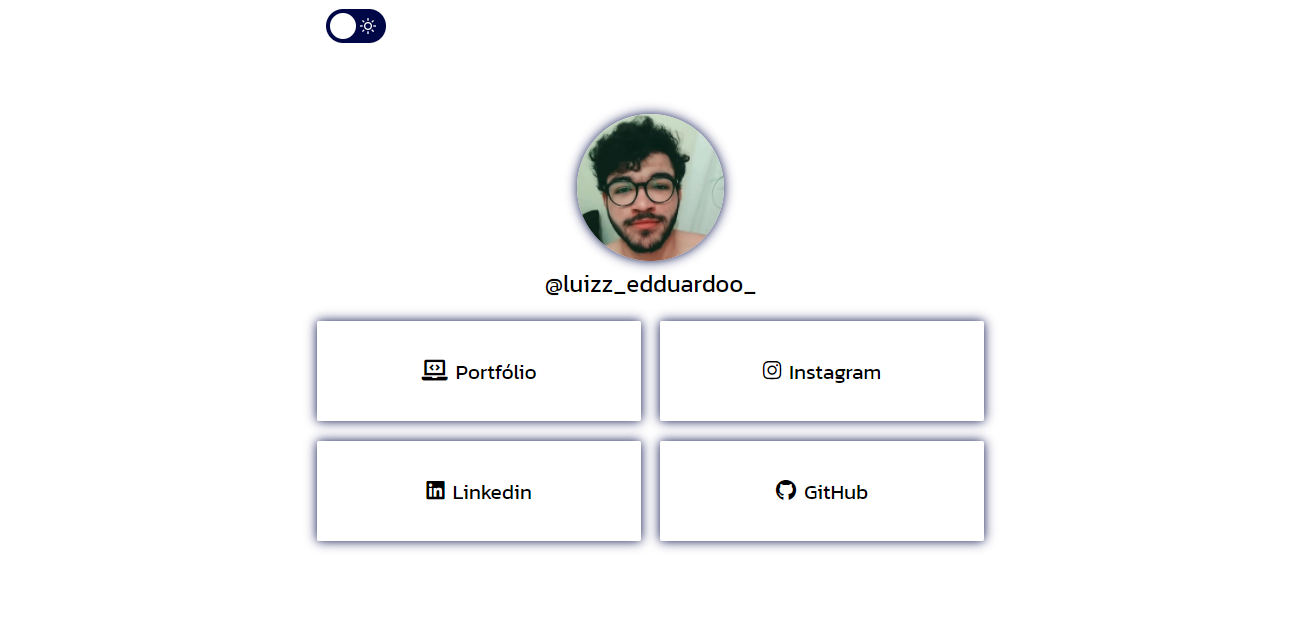
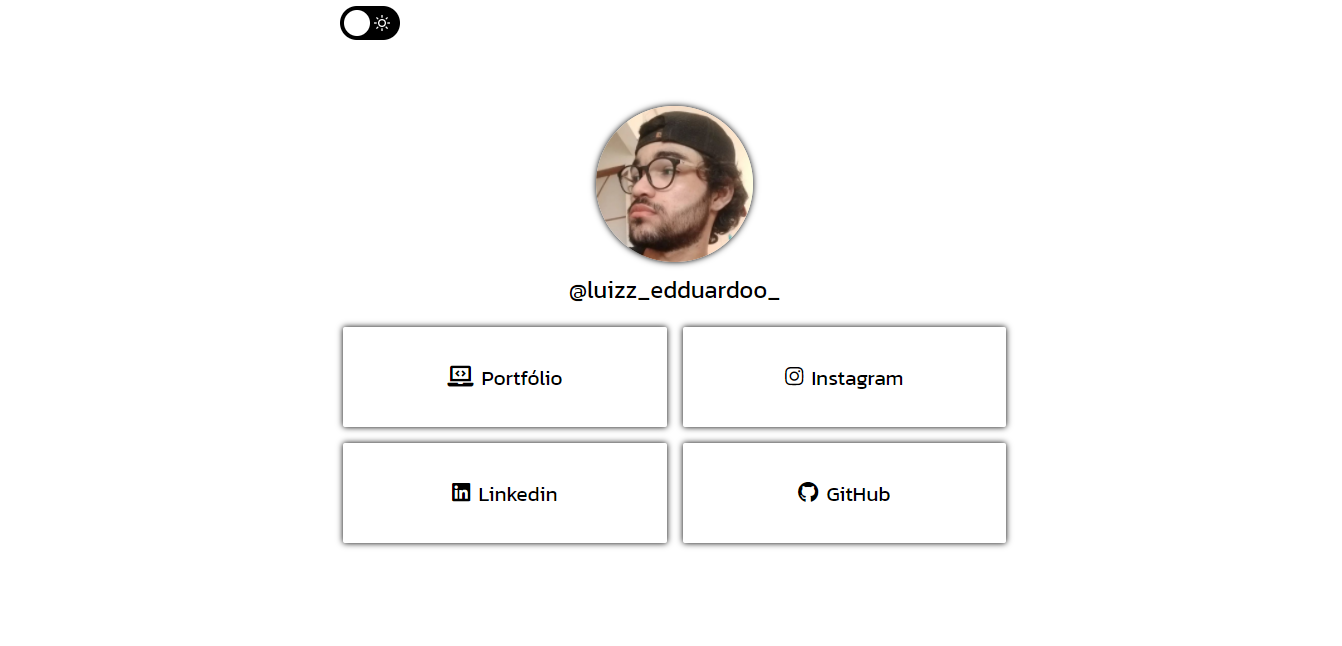
Modificação completa

diff --git a/Index.html b/Index.html
@@ -1,86 +1,91 @@
-<!doctype html>
+<!DOCTYPE html>
 <html lang="pt-br" data-theme="light">
-  
-  <head>
-    <meta charset="utf-8">
-    <meta http-equiv="x-ua-compatible" content="ie=edge">
-    <meta name="viewport" content="width=device-width, initial-scale=1.0">
-    <title>@luizz_edduardoo_ | Menu</title>
-    <!--<link rel="canonical" href="https://linkss.netlify.app/">-->
-    <meta name="author" content="Luiz Eduardo">
-    <meta name="robots" content="index">
-    <meta name="googlebot" content="index">
-    <!---<meta name="url" content="https://linkss.netlify.app/">-->
-    <meta name="copyright" content="Luiz Eduardo 2021">
-    <meta http-equiv="content-language" content="pt-br">
 
-    <script src="https://kit.fontawesome.com/6e587148a4.js" crossorigin="anonymous"></script>
-    <link rel="preconnect" href="https://fonts.googleapis.com">
-    <link rel="preconnect" href="https://fonts.gstatic.com" crossorigin>
-    <link href="https://fonts.googleapis.com/css2?family=Kanit:wght@400;500;600;700;800&display=swap" rel="stylesheet">
-    <link rel="icon" href="/assets/img/favIcon.png">
-    <link rel="stylesheet" href="/assets/css/Style.css">
-  </head>
+<head>
+  <meta charset="utf-8" />
+  <meta http-equiv="x-ua-compatible" content="ie=edge" />
+  <meta name="viewport" content="width=device-width, initial-scale=1.0" />
+  <title>Bio | Luiz Eduardo - Front-End Developer</title>
+  <meta name="author" content="Luiz Eduardo" />
+  <meta name="robots" content="index" />
+  <meta name="googlebot" content="index" />
+  <meta name="copyright" content="Luiz Eduardo 2021" />
 
-  <body>
-    <main>
-      <section id="container-principal">
-        <div class="container-width">
-          <div class="container-input-checkbox">
-            <label class="mudar-tema" for="checkbox">
-              <input type="checkbox" id="checkbox">
-              <div class="slider">
-                <svg xmlns="http://www.w3.org/2000/svg" width="16" height="16" viewBox="0 0 24 24" fill="none" stroke="currentColor" stroke-width="2" stroke-linecap="round" stroke-linejoin="round" class="feather efeito-sol">
-                    <circle cx="12" cy="12" r="5"></circle>
-                    <line x1="12" y1="1" x2="12" y2="3"></line>
-                    <line x1="12" y1="21" x2="12" y2="23"></line>
-                    <line x1="4.22" y1="4.22" x2="5.64" y2="5.64"></line>
-                    <line x1="18.36" y1="18.36" x2="19.78" y2="19.78"></line>
-                    <line x1="1" y1="12" x2="3" y2="12"></line>
-                    <line x1="21" y1="12" x2="23" y2="12"></line>
-                    <line x1="4.22" y1="19.78" x2="5.64" y2="18.36"></line>
-                    <line x1="18.36" y1="5.64" x2="19.78" y2="4.22"></line>
-                </svg>
-                <svg xmlns="http://www.w3.org/2000/svg" width="16" height="16" viewBox="0 0 24 24" fill="none" stroke="currentColor" stroke-width="2" stroke-linecap="round" stroke-linejoin="round" class="feather efeito-lua">
-                    <path d="M21 12.79A9 9 0 1 1 11.21 3 7 7 0 0 0 21 12.79z"></path>
-                </svg>
+  <script src="https://kit.fontawesome.com/6e587148a4.js" crossorigin="anonymous"></script>
+  <link rel="preconnect" href="https://fonts.googleapis.com" />
+  <link rel="preconnect" href="https://fonts.gstatic.com" crossorigin />
+  <link href="https://fonts.googleapis.com/css2?family=Kanit:wght@400;500;600;700;800&display=swap" rel="stylesheet" />
+  <link rel="icon" href="assets/img/favIcon.png" />
+  <link rel="stylesheet" href="assets/css/Style.css" />
+</head>
+
+<body>
+  <main>
+    <section id="container-principal">
+      <div class="container-width">
+        <div class="container-input-checkbox">
+          <label class="mudar-tema" for="checkbox">
+            <input type="checkbox" id="checkbox" />
+            <div class="slider">
+              <svg xmlns="http://www.w3.org/2000/svg" width="16" height="16" viewBox="0 0 24 24" fill="none"
+                stroke="currentColor" stroke-width="2" stroke-linecap="round" stroke-linejoin="round"
+                class="feather efeito-sol">
+                <circle cx="12" cy="12" r="5"></circle>
+                <line x1="12" y1="1" x2="12" y2="3"></line>
+                <line x1="12" y1="21" x2="12" y2="23"></line>
+                <line x1="4.22" y1="4.22" x2="5.64" y2="5.64"></line>
+                <line x1="18.36" y1="18.36" x2="19.78" y2="19.78"></line>
+                <line x1="1" y1="12" x2="3" y2="12"></line>
+                <line x1="21" y1="12" x2="23" y2="12"></line>
+                <line x1="4.22" y1="19.78" x2="5.64" y2="18.36"></line>
+                <line x1="18.36" y1="5.64" x2="19.78" y2="4.22"></line>
+              </svg>
+              <svg xmlns="http://www.w3.org/2000/svg" width="16" height="16" viewBox="0 0 24 24" fill="none"
+                stroke="currentColor" stroke-width="2" stroke-linecap="round" stroke-linejoin="round"
+                class="feather efeito-lua">
+                <path d="M21 12.79A9 9 0 1 1 11.21 3 7 7 0 0 0 21 12.79z"></path>
+              </svg>
             </div>
-            </label>
-          </div><!-- Fim da div -->
+          </label>
+        </div>
+        <!-- Fim da div -->
 
-          <div class="container-infos">
-            <img src="/assets/img/minha imagem.png" alt="Minha Foto">
-            <h1>@luizz_edduardoo_</h1>
-    
-            <div class="links">
-              <a href="https://luizeduardodev.netlify.app/">
-                <i class="fas fa-laptop-code"></i>
-                <span>Portfólio</span>
-              </a>
-              <a href="https://www.instagram.com/luizz_edduardoo_/">
-                <i class="fab fa-instagram"></i>
-                <span>Instagram</span>
-              </a>
-              <a href="https://www.linkedin.com/in/luiz-eeduardoo/">
-                <i class="fab fa-linkedin"></i>
-                <span>Linkedin</span>
-              </a>
-              <a href="https://github.com/luizeduardodev">
-                <i class="fab fa-github"></i>
-                <span>GitHub</span>
-              </a>
-            </div>
-          </div><!-- Fim da div infos -->
-        </div><!-- Fim da div container width -->
-      </section><!-- Fim da section principal -->
-    </main><!-- Fim do main -->
+        <div class="container-infos">
+          <img src="assets/img/minha-imagem.png" alt="Minha Foto" />
+          <h1>@luizz_edduardoo_</h1>
 
-    <footer id="rodape">
-      <span class="span-1">Luiz Eduardo</span>
-      <span class="span-2">© Luiz Eduardo - All rights reserved</span>
-      <span class="span-2">Design by Luiz Eduardo</span>
-    </footer><!-- Fim do rodape -->
+          <div class="links">
+            <a href="https://luizeduardodev.netlify.app/">
+              <i class="fas fa-laptop-code"></i>
+              <span>Portfólio</span>
+            </a>
+            <a href="https://www.instagram.com/luizz_edduardoo_/">
+              <i class="fab fa-instagram"></i>
+              <span>Instagram</span>
+            </a>
+            <a href="https://www.linkedin.com/in/luiz-eeduardoo/">
+              <i class="fab fa-linkedin"></i>
+              <span>Linkedin</span>
+            </a>
+            <a href="https://github.com/luizeduardodev">
+              <i class="fab fa-github"></i>
+              <span>GitHub</span>
+            </a>
+          </div>
+        </div>
+        <!-- Fim da div infos -->
+      </div>
+      <!-- Fim da div container width -->
+    </section>
+    <!-- Fim da section principal -->
+  </main>
+  <!-- Fim do main -->
 
-    <script src="/assets/js/index.js"></script>
-  </body>
+  <footer id="rodape">
+    <span>© 2022 Luiz Eduardo All rights reserved</span>
+  </footer>
+  <!-- Fim do rodape -->
+
+  <script src="/assets/js/index.js"></script>
+</body>
 </html>

diff --git a/assets/css/Style.css b/assets/css/Style.css
@@ -14,28 +14,32 @@ html{
     -webkit-tap-highlight-color: transparent;
 }
 /* Variáveis root - dark and light mode */
-html[data-theme="light"]{
-    --bg: #FFFFFF;
+html[data-theme = "light"]{
+    --bg: #ffff;
     --color-text: #000;
-    --box-shadow: 0 0 0.7rem #000746;
-    --bg-link: #000746;
+    --box-shadow: 0 0 0.4rem #000;
+    --bg-link: #000;
     --color-link: #ffff;
+    /* Botão change theme */
+    --bg-bottom: #000;
+    --icon: #fff;
+    --slider: #fff;
 }
-html[data-theme="dark"]{
-    --bg:#000216;
-    --color-text: #fff;
-    --box-shadow: 0 0 0.7rem white;
+html[data-theme = "dark"]{
+    --bg: #000;
+    --color-text: #ffff;
+    --box-shadow: 0 0 0.4rem #ffff;
     --bg-link: #fff;
     --color-link: #000;
+    /* Botão change theme */
+    --bg-bottom: #fff;
+    --icon: #000;
+    --slider: #000;
 }
 body{
     background-color: var(--bg);
 }
 /* Conteudo principal */
-#container-principal{
-    /* padding: 70px 0; */
-    /* height: 100vh; */
-}
 #container-principal .container-width{
     width: 100%;
     max-width: 980px;
@@ -49,7 +53,7 @@ body{
 #container-principal .container-width .container-input-checkbox{
     display: flex;
     position: absolute;
-    left: 350px;
+    left: 340px;
     top: 10px;
 }
 .mudar-tema{
@@ -67,8 +71,8 @@ body{
     left: 0;
     right: 0;
     top: 0;
-    border-radius: 34px;
-    background-color: #000746;
+    border-radius: 20px;
+    background-color: var(--bg-bottom);
     cursor: pointer;
     transition: 0.4s;
 }
@@ -80,7 +84,7 @@ body{
     width: 26px;
     height: 26px;
     border-radius: 50%;
-    background-color: #fff;
+    background-color: var(--slider);
     transition: 0.4s;
 }
 input:checked + .slider:before{
@@ -88,7 +92,7 @@ input:checked + .slider:before{
 }
 .slider svg{
     position: absolute;
-    color: #fff;
+    color: var(--icon);
     transition: opacity 0.2s ease 0s, transform 0.35s ease 0s;
     pointer-events: none;
 }
@@ -121,13 +125,13 @@ input:checked + .slider .efeito-sol{
     justify-content: center;
 }
 #container-principal .container-width .container-infos img{
-    width: 15%;
+    width: 16%;
     border-radius: 50%;
     box-shadow: var(--box-shadow);
 }
 #container-principal .container-width .container-infos h1{
     font-size: 1.5rem;
-    padding-top: 5px;
+    padding-top: 10px;
     font-weight: normal;
     color: var(--color-text);
 }
@@ -138,7 +142,7 @@ input:checked + .slider .efeito-sol{
     align-items: center;
     justify-content: center;
     flex-wrap: wrap;
-    gap: 2%;
+    gap: 1rem;
     padding-top: 20px;
 }
 .links a{
@@ -147,7 +151,6 @@ input:checked + .slider .efeito-sol{
     display: flex;
     justify-content: center;
     align-items: center;
-    margin-bottom: 20px;
     border-radius: 2px;
     font-size: 1.3rem;
     gap: .5rem;
@@ -167,17 +170,11 @@ input:checked + .slider .efeito-sol{
 #rodape{
     width: 100%;
     display: flex;
-    flex-direction: column;
     align-items: center;
     justify-content: center;
 }
-#rodape .span-1{
-    font-size: 1.3rem;
-    color: var(--color-text);
-    font-weight: bold;
-}
-#rodape .span-2{
-    font-size: 1rem;
+#rodape span{
+    font-size: 1.2rem;
     color: var(--color-text);
 }
 
@@ -218,15 +215,9 @@ input:checked + .slider .efeito-sol{
         width: 28%;
     }
     /* Links */
-    .links{
-        gap: 0%;
-    }
     .links a{
         width: 70%;
         font-size: 1.3rem;
-    }
-    .links a:nth-child(3), .links a:nth-child(4){
-        margin-bottom: 20px;
     }
 }
 
@@ -245,6 +236,9 @@ input:checked + .slider .efeito-sol{
     }
     .links a{
         width: 80%;
+    }
+    #rodape span{
+        font-size: 1rem;
     }
 }
 
